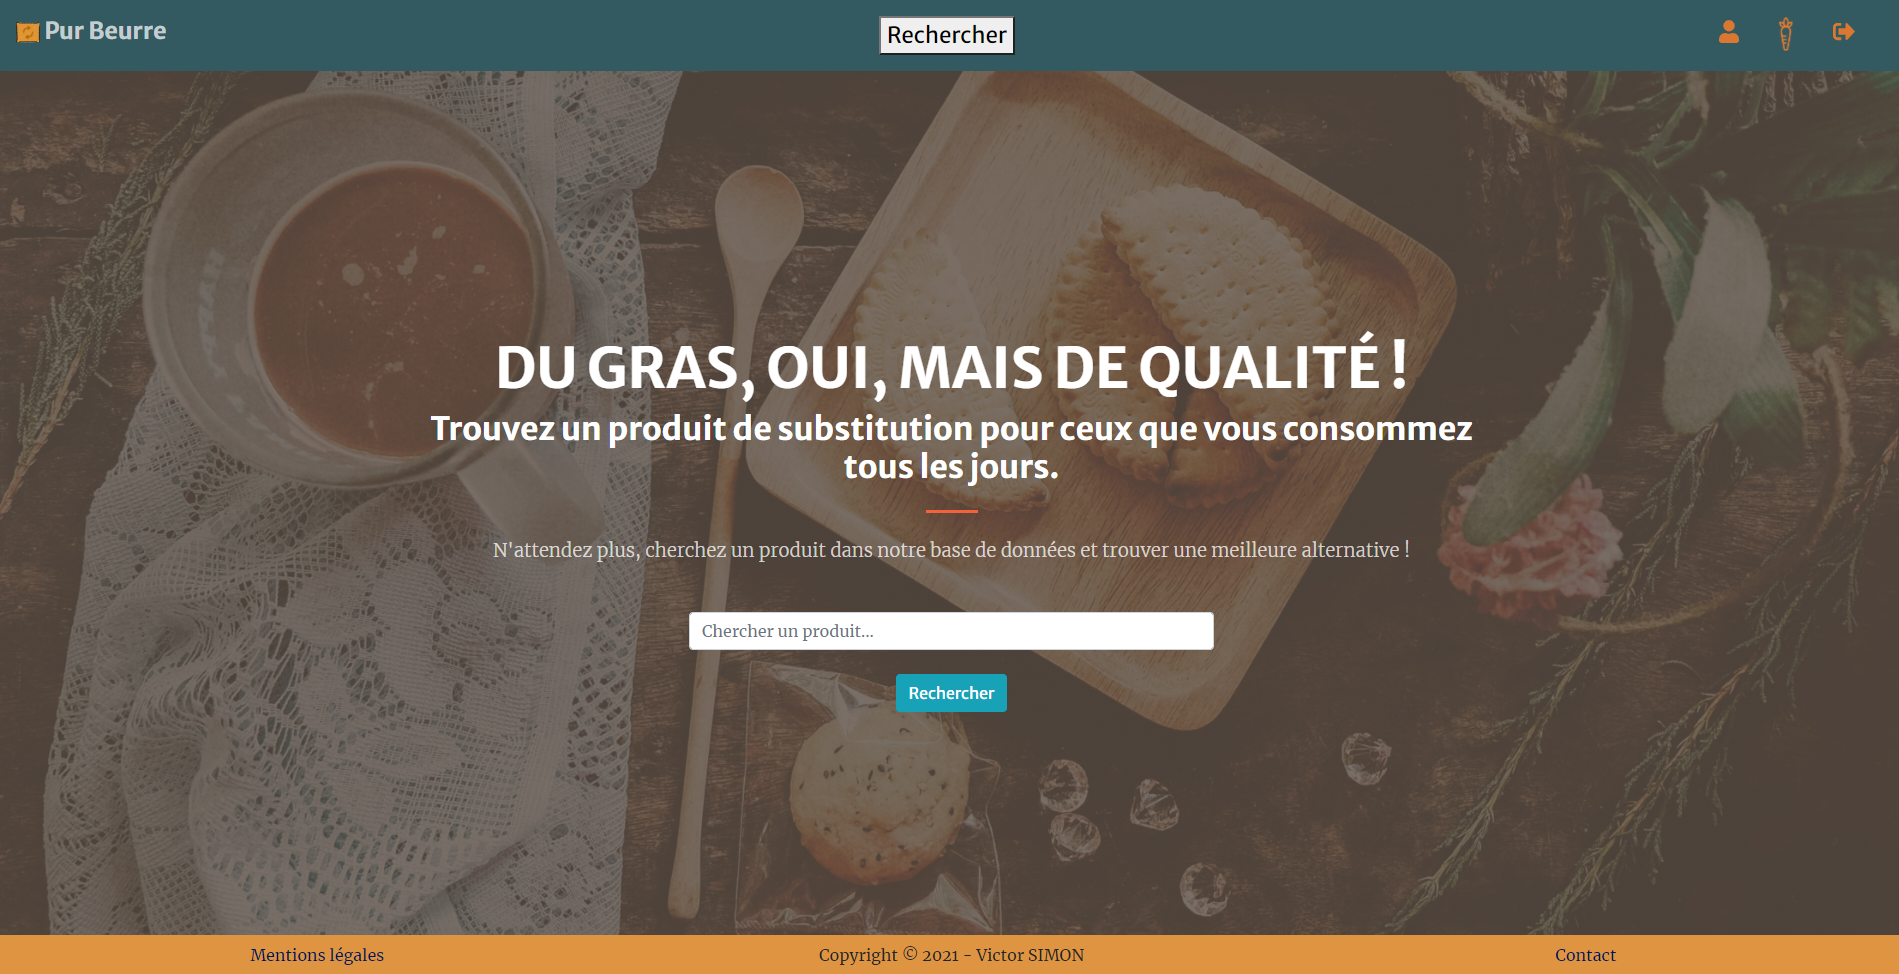
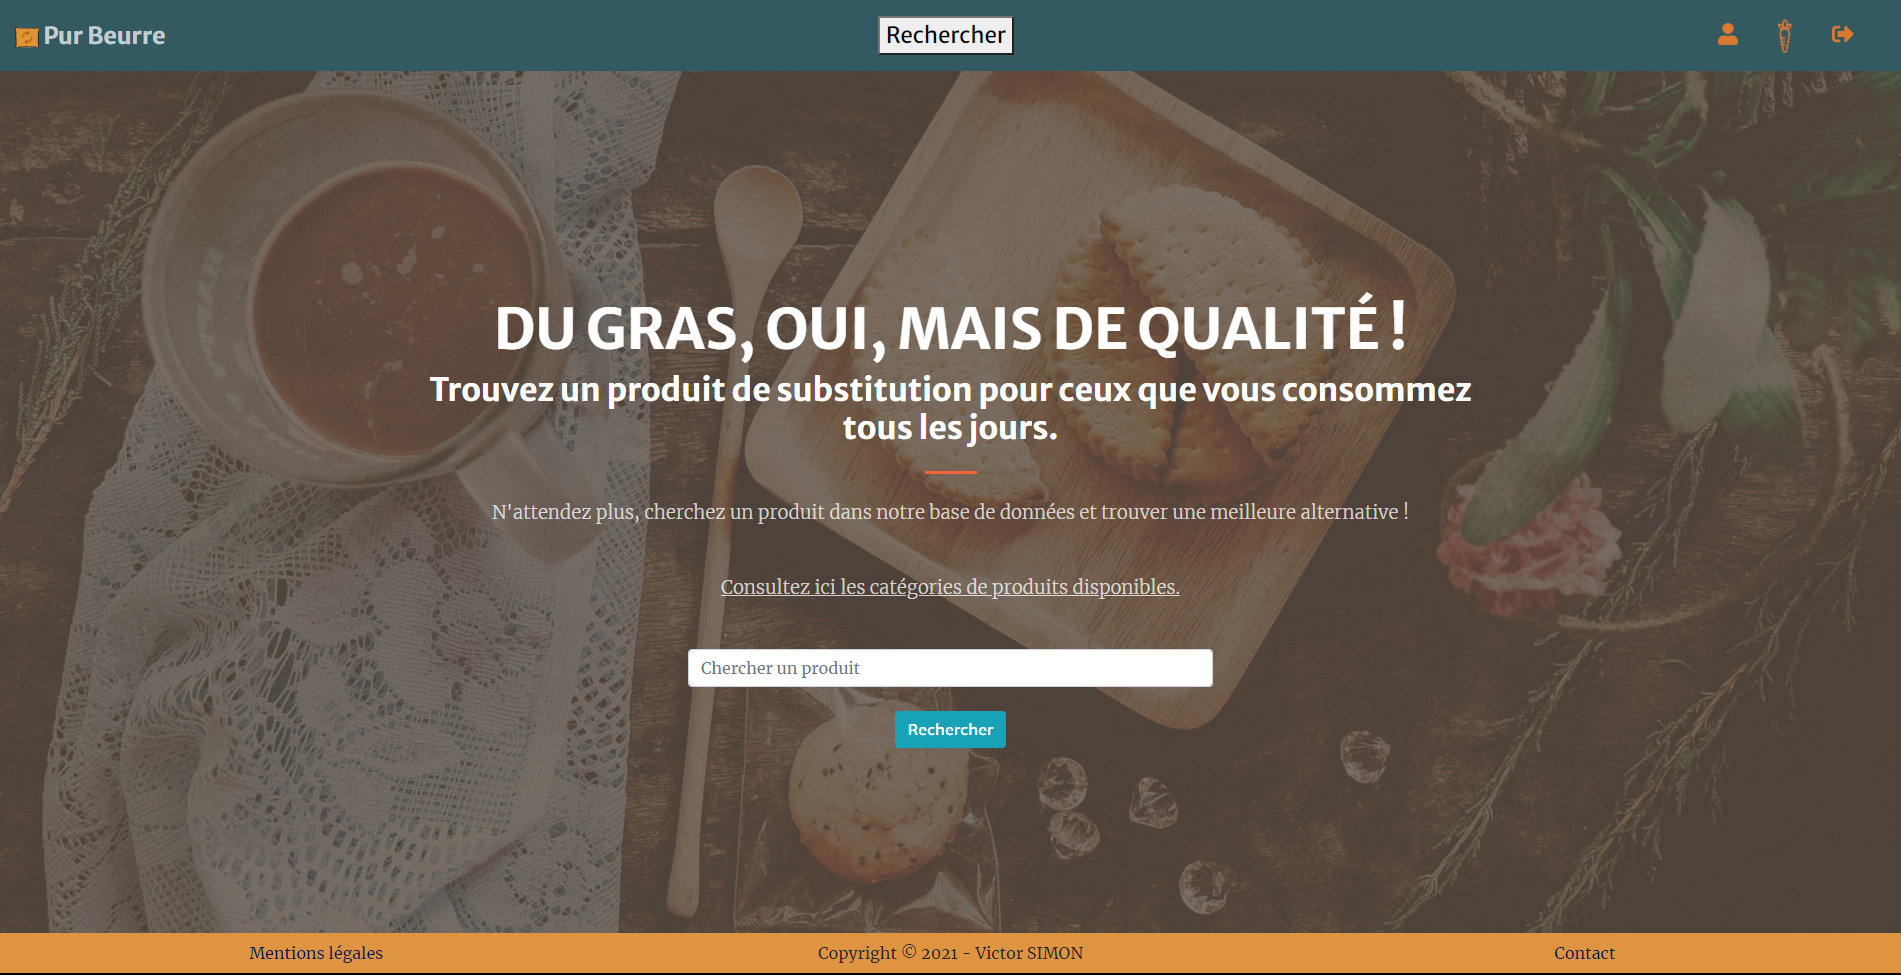
update readme

diff --git a/README.md b/README.md
@@ -3,31 +3,49 @@
 ## What is the objective of this website?
 In this website the goal is to allow the user to find healthier products than the ones he already consumes.
 
-## How does it work?
+## **How does it work?**
 
 The application behind the website uses data collected on the [OpenFoodFacts platform](https://fr.openfoodfacts.org/), using its API. 
 All the collected data is saved in a database dedicated to this application.
 The user needs to connect in order to look for a product.
+
+![home when not logged in](application/static/img/readme/homeloggedout.png)
+
+The user can log in through the appropriate page:
+
+![log in](application/static/img/readme/login.png)
+
+If the user is not registered yet, he can do so by clicking on the link under the login part.
+
+![register](application/static/img/readme/register.png)
+
 Once connected, the user can search for a product on the main page:
 
 ![home](application/static/img/readme/home.png)
 
 To find the wanted product, the terms of the request need a certain accuracy, using the name of the product and/or its brand.
-Only some categories of product are available, they can be found in the 'settings.json' located in the folder application/main/management/commands.
+To see the categories available, click on the link 'Consultez ici les catégories de produits disponibles.'
+
+The product which matches the most the request will appear.
+
+![result](application/static/img/readme/search.png)
 
 Once the product found, the application will propose a maximum of 6 alternative products with a better or same nutriscore.
+
+![suggestions](application/static/img/readme/suggestions.png)
+
 The user can click on "Sauvegarder" under each of them and a bookmark will be saved.
 
-![saving](application/static/img/readme/saving.png)
+![saved](application/static/img/readme/saved.png)
 
 Each bookmark represents the searched product replaced by the chosen alternative product. The bookmarks can be consulted in the special interface by clicking on the carrot icon on the top right in the navigation bar.
 
-![bookmarks](application/static/img/readme/bookmarks.png)
+![bookmarks](application/static/img/readme/bookmark.png)
 
 The bookmarks can be deleted by clicking "supprimer" on their right part.
 
 
-# **How to install the app?**
+## **How to install the app?**
 
 You will need Django in order to use this applicationt will come automatically when extracting the requirements.
 
@@ -42,7 +60,7 @@ On Linux:
 > pip3 install -r requirements.txt
 ```
 
-## Django settings
+### Django settings
 
 Django is a complete framework offering various options, tools and services. Checking its [official documentation](https://docs.djangoproject.com/en/3.1/) is the best way to learn using it.
 
@@ -61,7 +79,7 @@ The name, user and its password are parameters you define in your own database s
 
 Another setting you might want to modify is "TIME ZONE = 'Europe/Paris' " located at line 123, in case it doesn't match with your time zone.
 
-## The database
+### The database
 
 **I chose PostgreSQL for this project but Django can work with other systems, although deploying the project on Heroku is only possible when using PostgreSQL.**
 
@@ -156,7 +174,7 @@ Once the database is fed, a confirmation message will appear on the terminal ind
 An entry will created in the "history" table saving the date and page used for the last feeding of the database.
 If you use 'db_feed.py' again after, the following page will be asked to Openfoodfacts, so the results show differents products than the ones already saved.
 
-## The program
+### The program
 
 How is the program organized?
 As many Django project, it contains different applications, which holds different models and scripts.
